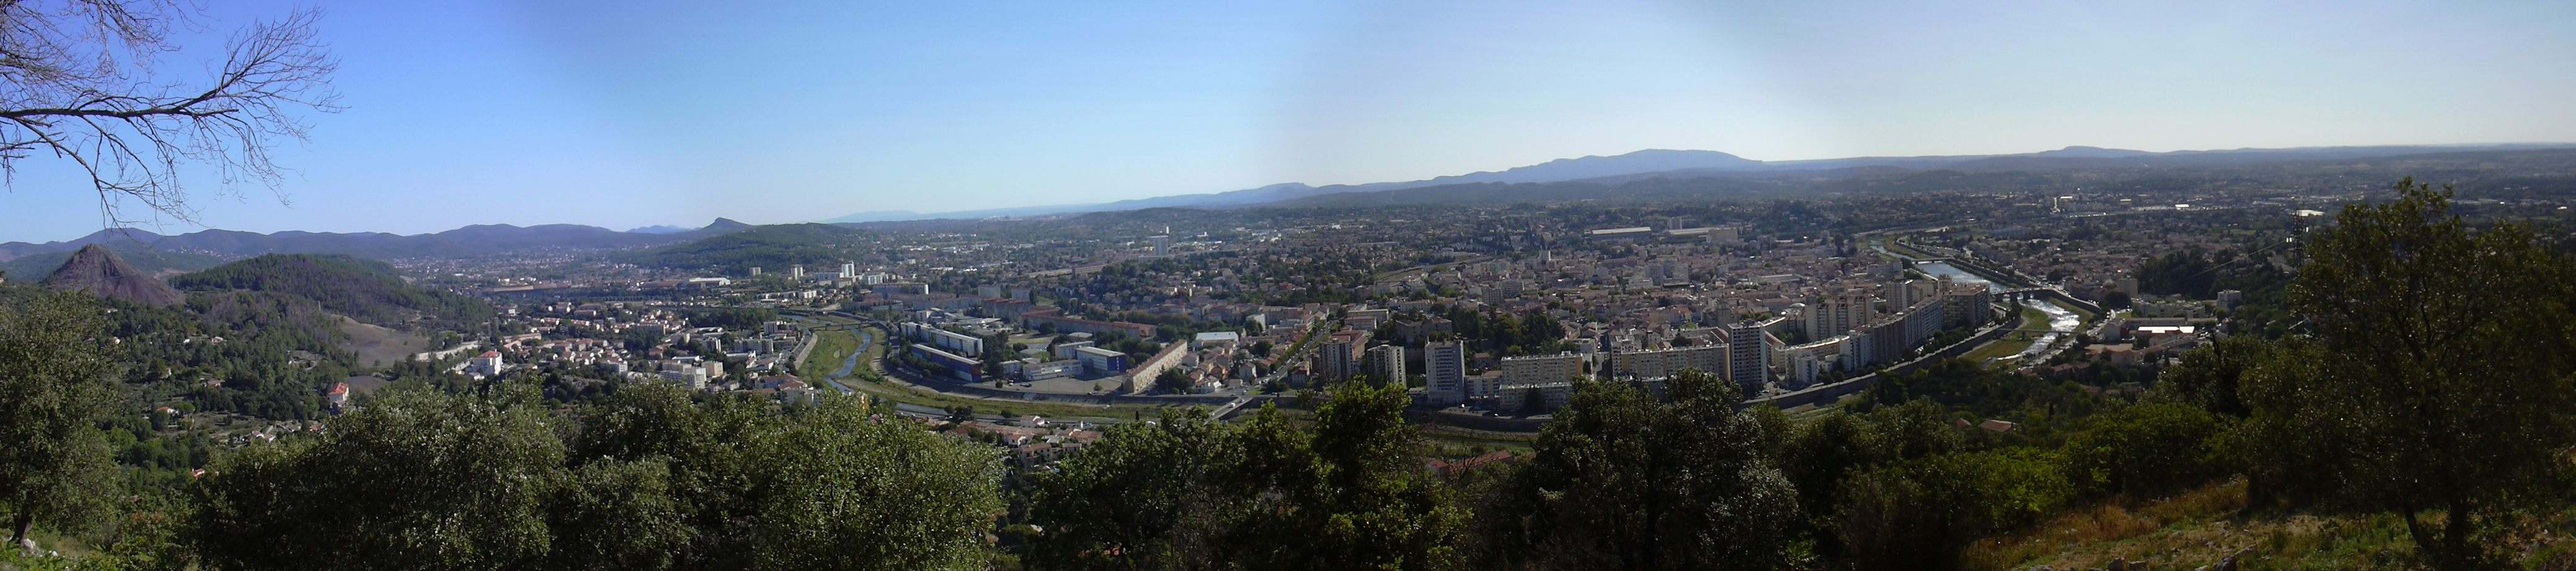
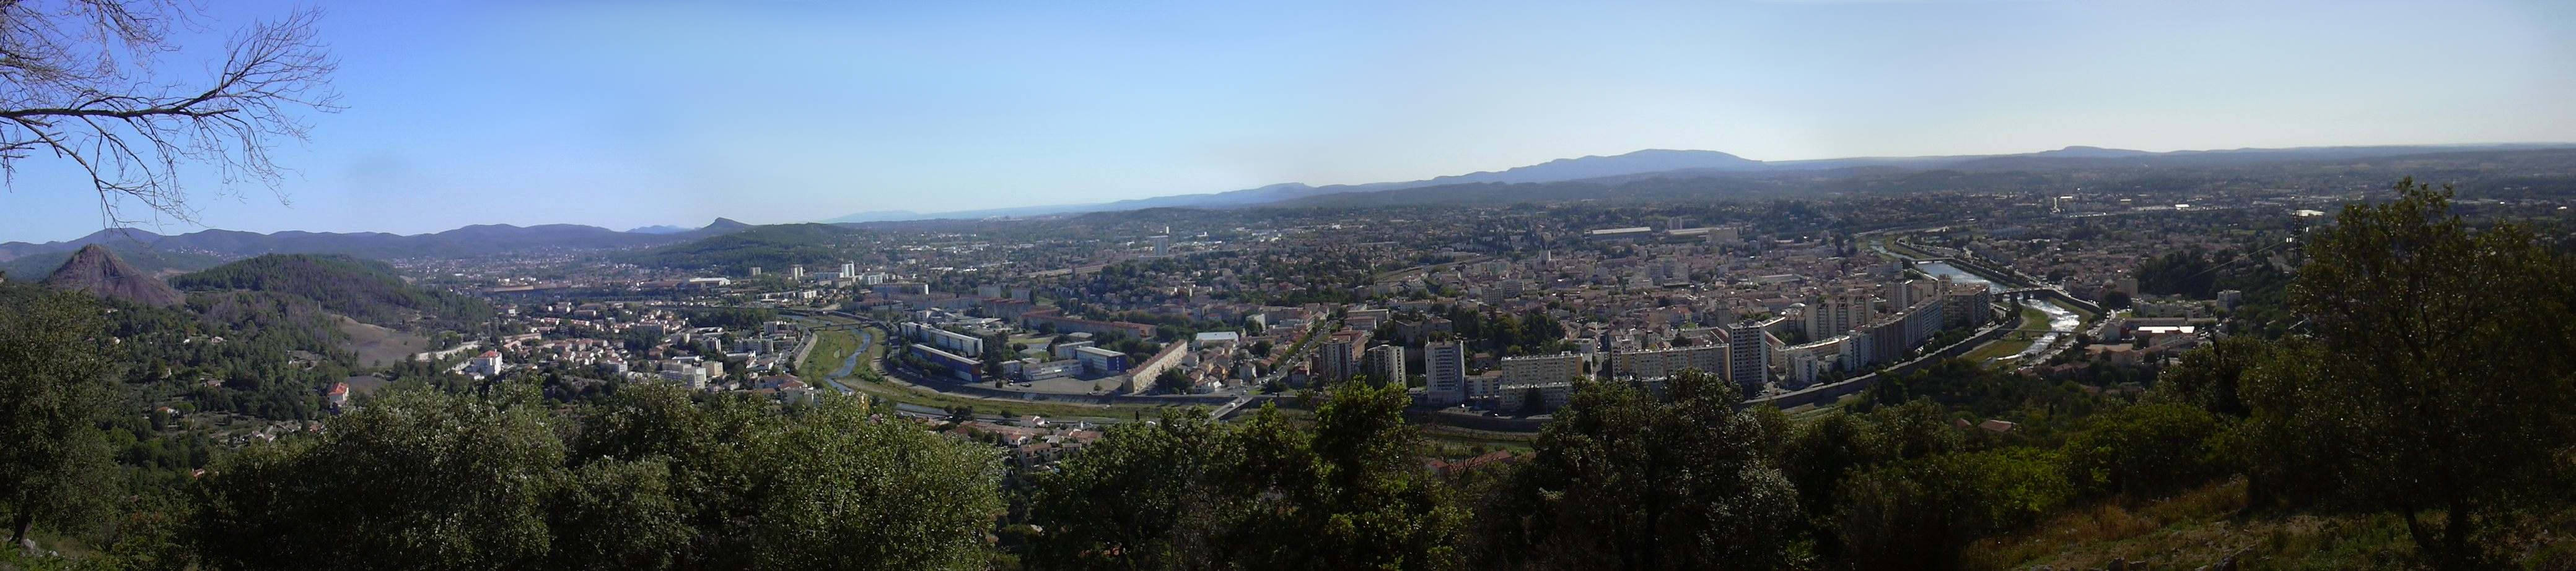
Improve Ales picture and add multiple sizes

diff --git a/css/styles.css b/css/styles.css
@@ -47,20 +47,17 @@
 }
 @media all and (min-width: 0) and (max-width: 640px) {
   .bg-separator.ales {
-    /*background-image: url('../img/topography-small.jpg');*/
-    background-image: url('../img/background/ales.jpg');
+    background-image: url('../img/background/ales-small.jpg');
   }
 }
 @media all and (min-width: 640px) and (max-width: 1280px) {
   .bg-separator.ales {
-    /*background-image: url('../img/topography-medium.jpg');*/
-    background-image: url('../img/background/ales.jpg');
+    background-image: url('../img/background/ales-medium.jpg');
   }
 }
 @media all and (min-width: 1280px) and (max-width: 1920px) {
   .bg-separator.ales {
-    /*background-image: url('../img/topography-large.jpg');*/
-    background-image: url('../img/background/ales.jpg');
+    background-image: url('../img/background/ales-large.jpg');
   }
 }
 @media all and (min-width: 1920px) {
